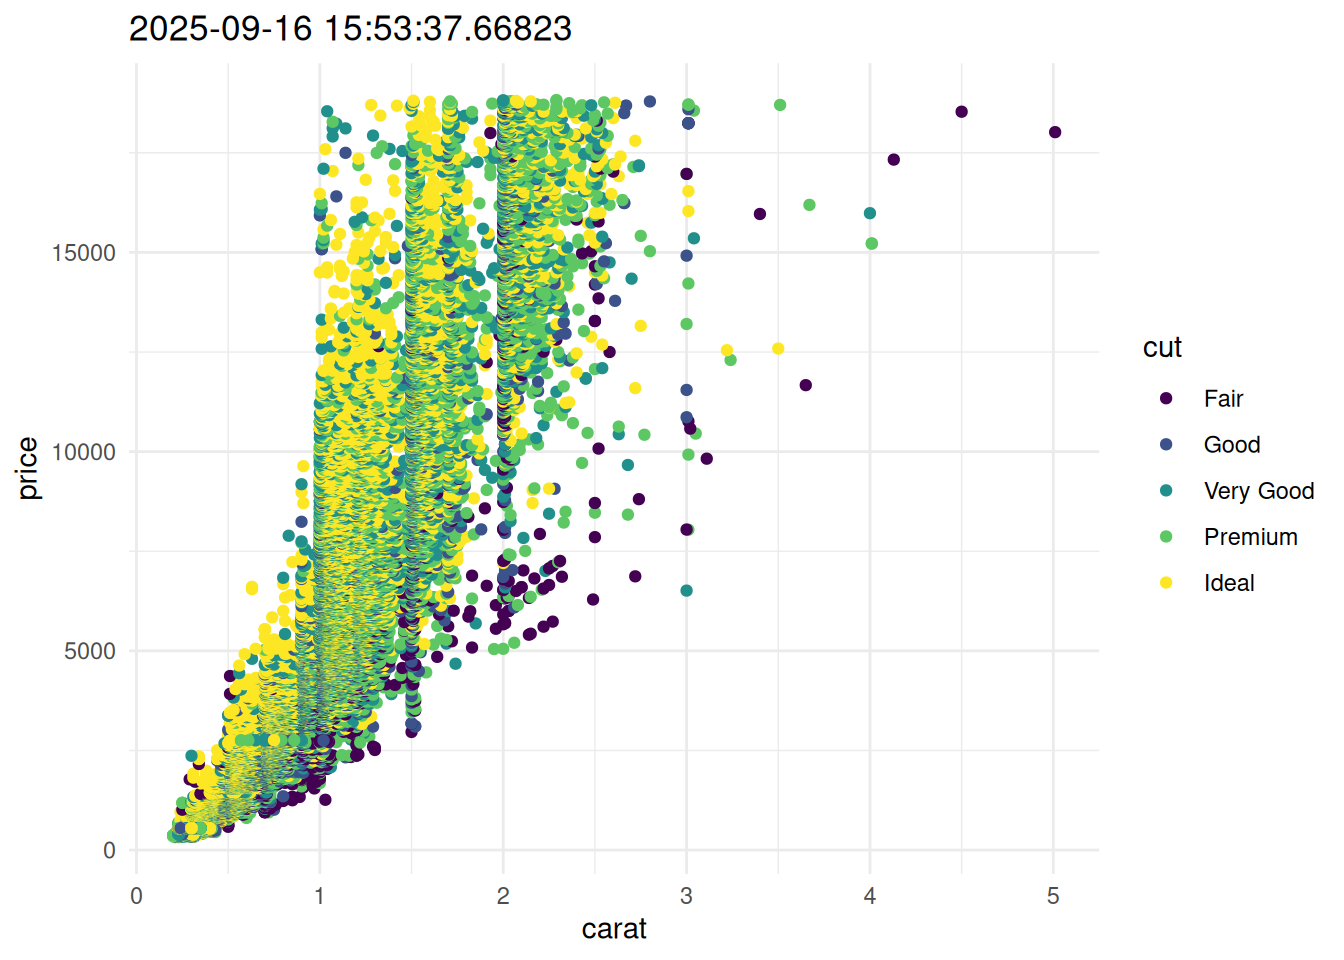
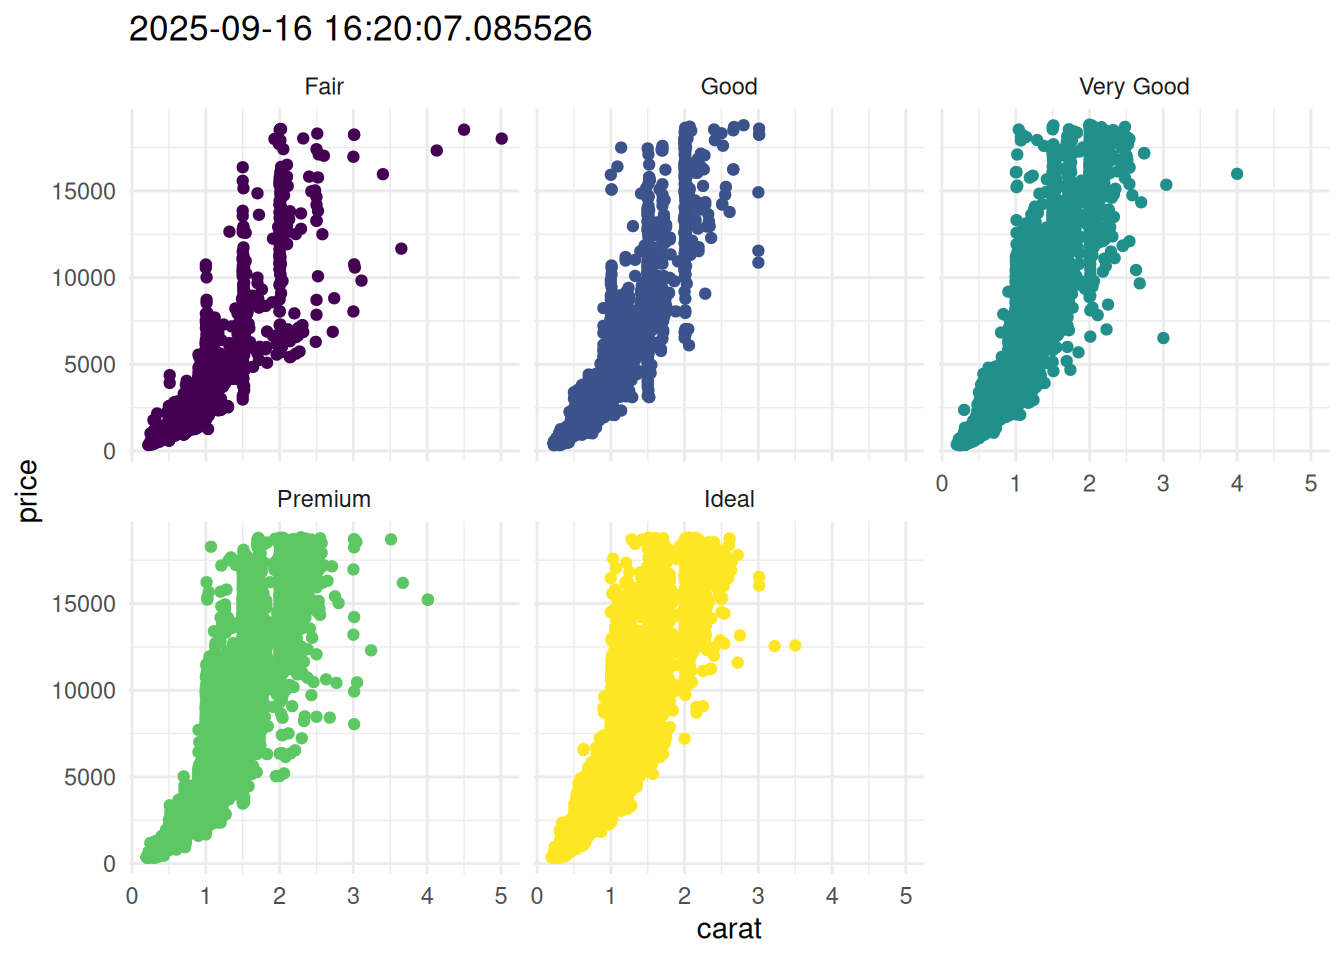
Deploying to gh-pages from @ jacbel/diamonds@558840819c8df67047d7817cb00d01e399e05c20 🚀

diff --git a/index.html b/index.html
@@ -107,8 +107,10 @@ pre > code.sourceCode > span > a:first-child::before { text-decoration: underlin
 <span id="cb1-3"><a href="#cb1-3" aria-hidden="true" tabindex="-1"></a>diamonds <span class="sc">|&gt;</span></span>
 <span id="cb1-4"><a href="#cb1-4" aria-hidden="true" tabindex="-1"></a>  <span class="fu">ggplot</span>(<span class="fu">aes</span>(<span class="at">x=</span>carat, <span class="at">y=</span>price, <span class="at">color=</span>cut)) <span class="sc">+</span></span>
 <span id="cb1-5"><a href="#cb1-5" aria-hidden="true" tabindex="-1"></a>  <span class="fu">geom_point</span>() <span class="sc">+</span></span>
-<span id="cb1-6"><a href="#cb1-6" aria-hidden="true" tabindex="-1"></a>  <span class="fu">ggtitle</span>(<span class="at">label =</span> <span class="fu">sprintf</span>(<span class="st">'%s'</span>, <span class="fu">Sys.time</span>())) <span class="sc">+</span></span>
-<span id="cb1-7"><a href="#cb1-7" aria-hidden="true" tabindex="-1"></a>  <span class="fu">theme_minimal</span>()</span></code></pre></div><button title="Copy to Clipboard" class="code-copy-button"><i class="bi"></i></button></div>
+<span id="cb1-6"><a href="#cb1-6" aria-hidden="true" tabindex="-1"></a>  <span class="fu">facet_wrap</span>(<span class="sc">~</span>cut) <span class="sc">+</span></span>
+<span id="cb1-7"><a href="#cb1-7" aria-hidden="true" tabindex="-1"></a>  <span class="fu">ggtitle</span>(<span class="at">label =</span> <span class="fu">sprintf</span>(<span class="st">'%s'</span>, <span class="fu">Sys.time</span>())) <span class="sc">+</span></span>
+<span id="cb1-8"><a href="#cb1-8" aria-hidden="true" tabindex="-1"></a>  <span class="fu">theme_minimal</span>() <span class="sc">+</span></span>
+<span id="cb1-9"><a href="#cb1-9" aria-hidden="true" tabindex="-1"></a>  <span class="fu">theme</span>(<span class="at">legend.position =</span> <span class="st">'none'</span>)</span></code></pre></div><button title="Copy to Clipboard" class="code-copy-button"><i class="bi"></i></button></div>
 <div class="cell-output-display">
 <div>
 <figure class="figure">
